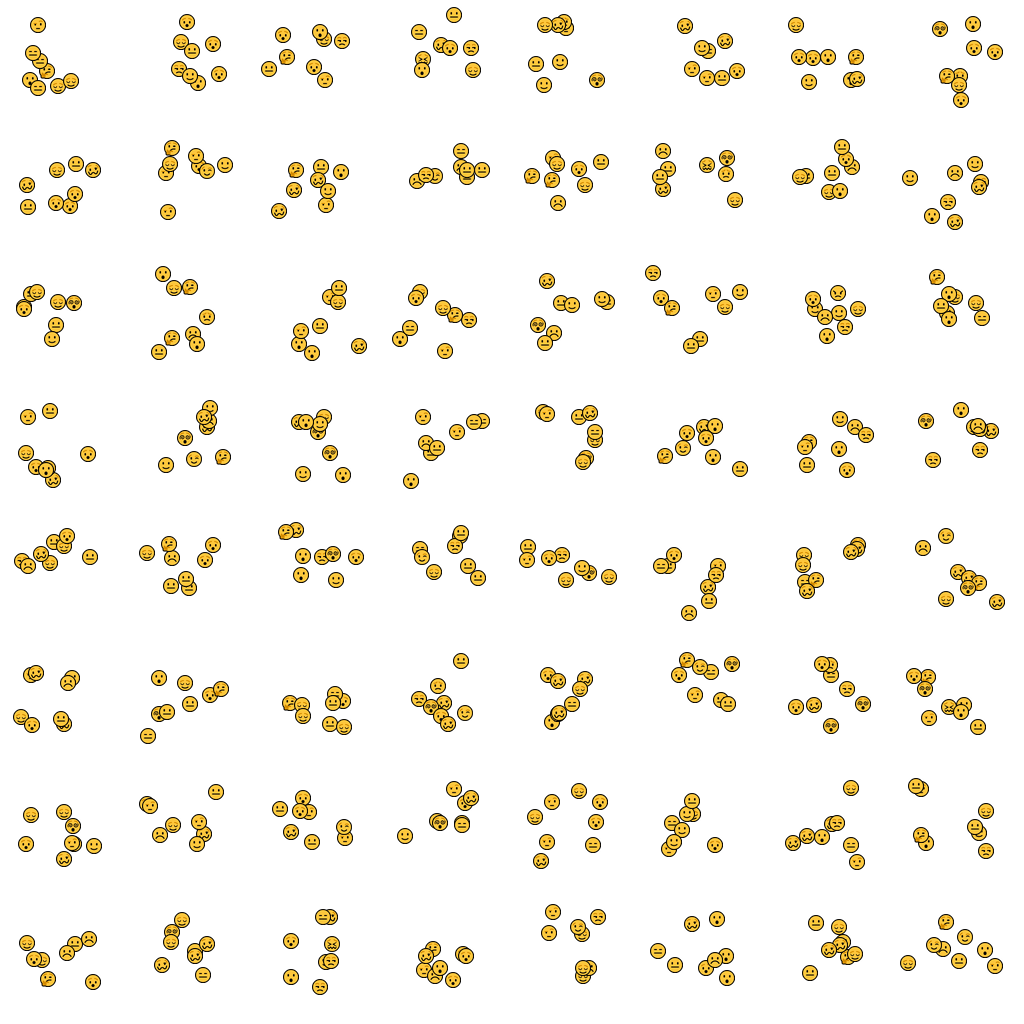
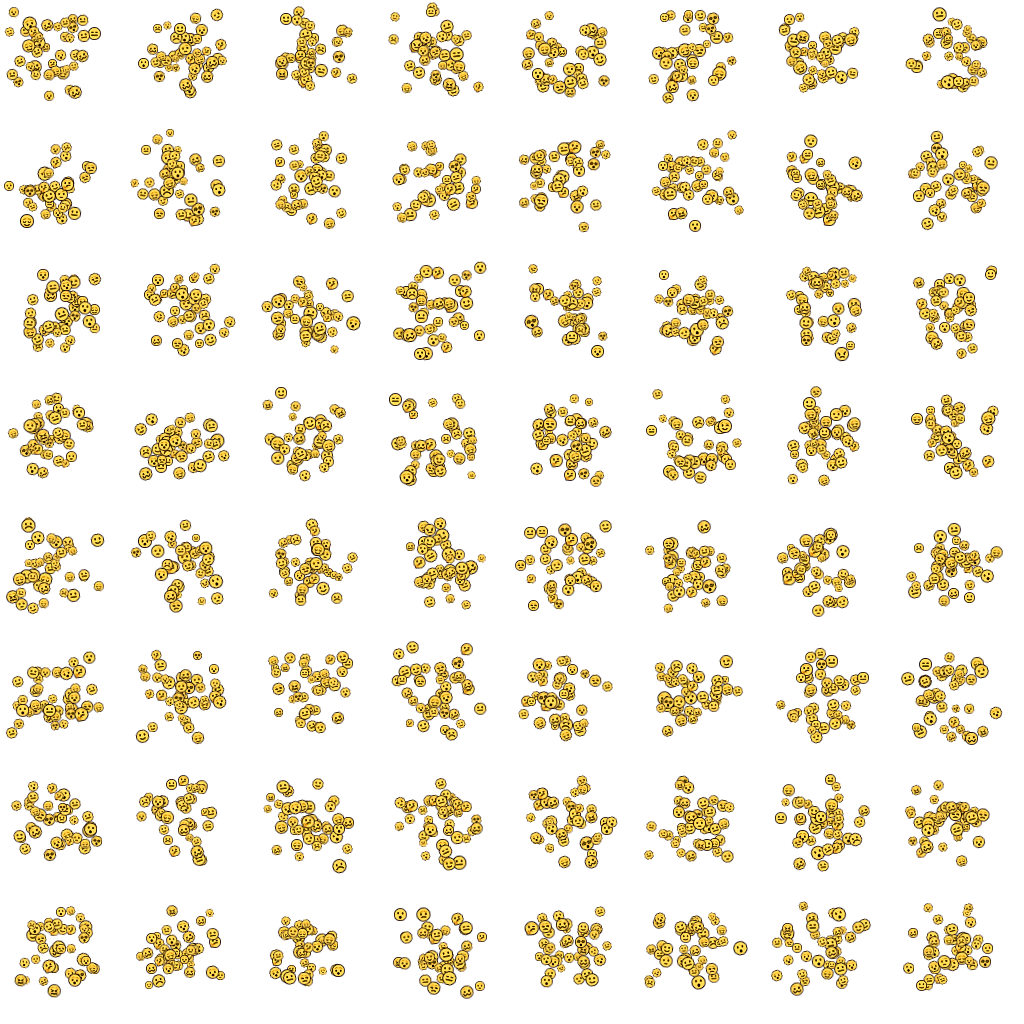
upd

diff --git a/scripts/ore.js b/scripts/ore.js
@@ -1,19 +1,19 @@
 const globby = require('globby')
 const sharp = require('sharp');
 
+
 const generateOre = async ({ argv: { _: [, name ] } }, chunkSize = 128, proportion = 0.125) => {
   const fileNames = await globby(`emojis/${name}/*.png`);
   const icons = await Promise.all(fileNames.map(fileName => sharp(fileName)))
   
-  generate({ icons, chunkSize: 128, outName: `hr-${name}` })
-  generate({ icons, chunkSize: 64, outName: name })
-
-
+  void (await generate({ icons, chunkSize: 128 }))
+    // .sharpen(100)
+    .toFile(`src/graphics/entity/hr-${name}.png`)
+  // generate({ icons, chunkSize: 64, outName: name })
 }
+
 const generate = async ({ icons, chunkSize = 128, proportion = 0.125, outName }) => {
-  const buffers = await Promise.all(icons.map(icon => icon
-    .resize(chunkSize * proportion, chunkSize * proportion)
-    .toBuffer()))
+  const baseSize = chunkSize * proportion
   const chunks = 8
 
   const result = await sharp({
@@ -25,7 +25,7 @@ const generate = async ({ icons, chunkSize = 128, proportion = 0.125, outName })
     }
   });
   
-  const perChunk = 8
+  const perChunk = 40
   const margin = 0.01
   const images = []
 
@@ -34,10 +34,15 @@ const generate = async ({ icons, chunkSize = 128, proportion = 0.125, outName })
       for (const _ of range(perChunk)) {
         const top = Math.round(random(margin * chunkSize, chunkSize - margin * chunkSize, 0.5))
         const left = Math.round(random(margin * chunkSize, chunkSize - margin * chunkSize, 0.5))
-        const input = buffers[random(0, buffers.length - 1)]
+        const randomSize = Math.round(random(baseSize * 0.5, baseSize, 0.5))
+        const buffer = await icons[random(0, icons.length - 1)]
+          .resize(randomSize)
+          .rotate(random(-30, 30, .5), {background: { r: 0, g: 0, b: 0, alpha: 0 }})
+          .sharpen(1)
+          .toBuffer()
 
         images.push({
-          input,
+          input: buffer,
           top: top + row * chunkSize,
           left: left + col * chunkSize
         })
@@ -45,7 +50,7 @@ const generate = async ({ icons, chunkSize = 128, proportion = 0.125, outName })
     }
   }
 
-  await result.composite(images).toFile(`src/graphics/entity/${outName}.png`)
+  return result.composite(images)
 }
 
 exports.generateOre = generateOre
